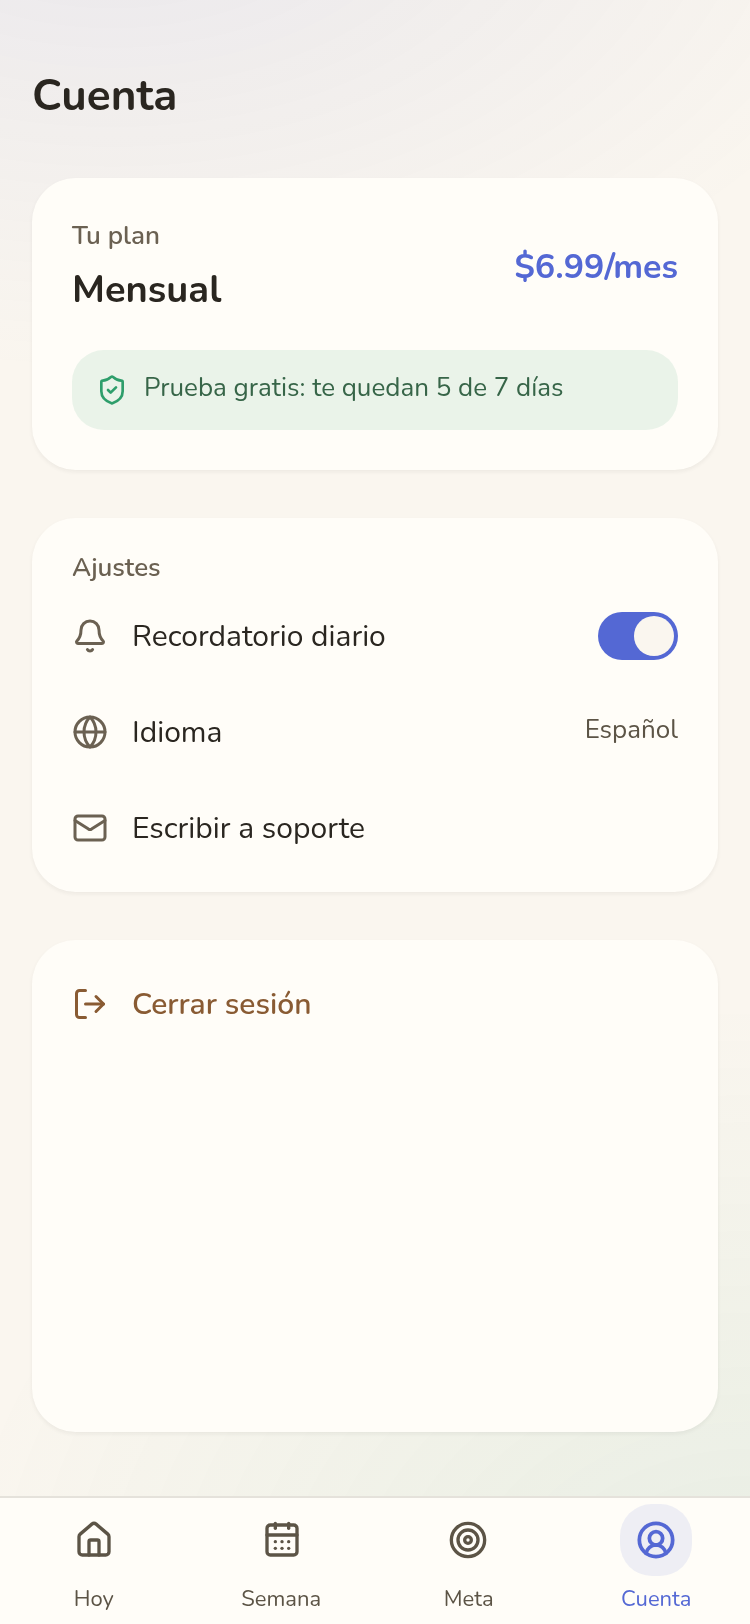
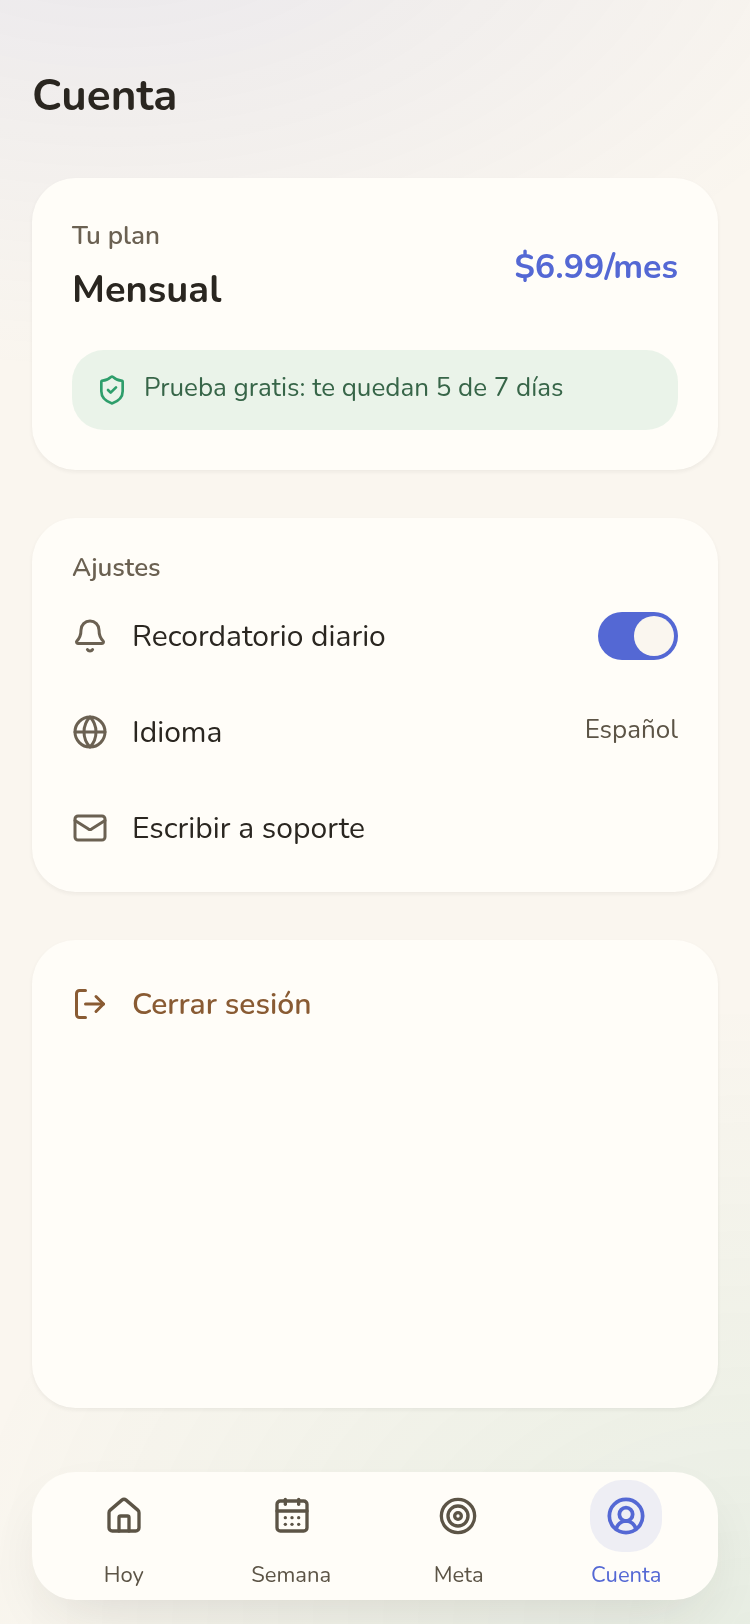
feat: menú inferior con relieve (isla flotante) + cierre de Sesión 5
Se mostraron 3 variantes de relieve para el menú (Hoy/Semana/Meta/Cuenta)
y la usuaria eligió "isla flotante": la barra se despega de los bordes
con margen y sombra propia. Queda como la única versión en BottomNav.

Sesión 5 (app interna) cerrada: la usuaria vio las 2 rondas del revisor
sobre "Hoy", corrigió los 5 pendientes concretos y decidió avanzar a
Sesión 6 sin pedir una 3ª ronda automática.

Claude-Session: https://claude.ai/code/session_013BYtLeMwZuWh58hVzwvyD5

Changed region(s): [[0.092, 0.9236, 0.9813, 1.0]]

diff --git a/components/app/ui.tsx b/components/app/ui.tsx
@@ -36,37 +36,42 @@ const DESTINOS: { href: string; label: string; icon: LucideIcon }[] = [
 ];
 
 /* ── <BottomNav> — 4 destinos (regla de 3-5), activo con chip de fondo +
-   ícono/label en acento (nunca del mismo color que su contenedor). ── */
+   ícono/label en acento (nunca del mismo color que su contenedor). "Isla
+   flotante": la barra se despega de los bordes y del fondo con margen
+   visible alrededor y sombra propia — elegida por la usuaria el 2026-09-18
+   entre 3 variantes de relieve (ver docs/revisiones/vivo/nav-variante-*.png). ── */
 export function BottomNav() {
   const ruta = usePathname();
   return (
-    <nav
-      aria-label="Navegación principal"
-      className="sticky bottom-0 z-20 flex h-16 items-stretch border-t border-[color-mix(in_oklab,var(--text-tertiary)_16%,transparent)] bg-[var(--surface)] pb-[env(safe-area-inset-bottom)]"
-    >
-      {DESTINOS.map(({ href, label, icon: Icono }) => {
-        const activo = href === '/app' ? ruta === '/app' : ruta.startsWith(href);
-        return (
-          <Link
-            key={href}
-            href={href}
-            aria-current={activo ? 'page' : undefined}
-            className="flex flex-1 flex-col items-center justify-center gap-1 [touch-action:manipulation]"
-          >
-            <span
-              className={`flex size-9 items-center justify-center rounded-[var(--radius-button)] ${
-                activo ? 'bg-[var(--chip-bg)]' : ''
-              }`}
+    <div className="px-4 pb-[max(12px,env(safe-area-inset-bottom))]">
+      <nav
+        aria-label="Navegación principal"
+        className="flex h-16 items-stretch rounded-[var(--radius-card)] bg-[var(--surface)] px-1 shadow-[var(--shadow-2)]"
+      >
+        {DESTINOS.map(({ href, label, icon: Icono }) => {
+          const activo = href === '/app' ? ruta === '/app' : ruta.startsWith(href);
+          return (
+            <Link
+              key={href}
+              href={href}
+              aria-current={activo ? 'page' : undefined}
+              className="flex flex-1 flex-col items-center justify-center gap-1 [touch-action:manipulation]"
             >
-              <Icono size={20} strokeWidth={activo ? 2.25 : 2} color={activo ? 'var(--accent)' : 'var(--text-tertiary)'} aria-hidden="true" />
-            </span>
-            <span className={`text-[11px] font-medium ${activo ? 'text-[var(--accent)]' : 'text-[var(--text-tertiary)]'}`}>
-              {label}
-            </span>
-          </Link>
-        );
-      })}
-    </nav>
+              <span
+                className={`flex size-9 items-center justify-center rounded-[var(--radius-button)] ${
+                  activo ? 'bg-[var(--chip-bg)]' : ''
+                }`}
+              >
+                <Icono size={20} strokeWidth={activo ? 2.25 : 2} color={activo ? 'var(--accent)' : 'var(--text-tertiary)'} aria-hidden="true" />
+              </span>
+              <span className={`text-[11px] font-medium ${activo ? 'text-[var(--accent)]' : 'text-[var(--text-tertiary)]'}`}>
+                {label}
+              </span>
+            </Link>
+          );
+        })}
+      </nav>
+    </div>
   );
 }
 

diff --git a/ESTADO.md b/ESTADO.md
@@ -17,9 +17,17 @@ la meta + más contenido real (racha en la confirmación), (4) botón "Cancelar"
 valor, (5) FICHA-ARTE.md actualizada para documentar la escala tipográfica realmente en uso
 (19-22px título, 12-13px label) en vez de re-litigar tamaños ya consistentes en paywall/
 onboarding. tsc ✓ build ✓ · capturas regeneradas. NO se relanzó el revisor una 3ª vez (respeta
-el límite de la usuaria) — queda pendiente que ELLA vea el resultado y decida si esto ya cierra
-la pantalla o prefiere una verificación más.
-Paso actual: mostrarle a la usuaria las capturas actualizadas y esperar su decisión.
+el límite de la usuaria). La usuaria decidió AVANZAR A SESIÓN 6 con este resultado (sin pedir
+una verificación más de "Hoy").
+Antes de avanzar, pidió un ajuste visual: el menú inferior (Hoy/Semana/Meta/Cuenta) con efecto
+de relieve/3D. Se mostraron 3 variantes reales (docs/revisiones/vivo/nav-variante-A/B/C.png):
+A "Isla flotante" (barra despegada de los bordes, con margen y sombra propia), B "Puente
+elevado" (ancho completo, esquinas superiores redondeadas, sombra hacia arriba), C "Cápsula
+activa" (barra plana, solo el ítem activo se levanta). Eligió **A**. Implementada en
+`components/app/ui.tsx` (`BottomNav`) como la única versión — el código de comparación
+(`?nav=A|B|C`) se quitó, no queda como opción oculta. tsc ✓ build ✓ · capturas regeneradas con
+el menú nuevo en las 4 pantallas.
+Paso actual: Sesión 5 CERRADA. Arrancar Sesión 6 (servicios externos).
 Pantallas creadas: Hoy · Semana · Tu meta · Cuenta.
 Protagonista de cada pantalla: Hoy = marcar el Semáforo del día · Semana = tendencia de los
 últimos días/semanas · Tu meta = avance de la meta elegida en el onboarding · Cuenta = plan y
@@ -94,16 +102,16 @@ App de hábito diario que acompaña a mujeres 25-35 LATAM a dejar de gastar por 
 - Onboarding: construida y APROBADA POR LA USUARIA EN SUSTANCIA (Sesión 4, cerrada 2026-09-18)
 - Paywall: CERTIFICADA ✅ por el revisor-visual (Sesión 4, cerrada 2026-09-18)
 - Login/Auth: construida (UI completa, magic link SIMULADO — Supabase Auth real se conecta en Sesión 6), no requiere revisor obligatorio
-- App interna: 4 pantallas construidas (Hoy, Semana, Tu meta, Cuenta) — PENDIENTE de que la usuaria vea las capturas y decida sobre la revisión del revisor-visual en Hoy (la pantalla principal). Persistencia local (Supabase real en Sesión 6).
-- Servicios externos: pendiente
+- App interna: 4 pantallas construidas y APROBADAS POR LA USUARIA (Hoy, Semana, Tu meta, Cuenta) — Sesión 5 cerrada 2026-09-18. Persistencia local (Supabase real en Sesión 6).
+- Servicios externos: pendiente (Sesión 6, en curso)
 
 ## Puertas de etapa (aprobacion antes de avanzar)
 - Landing: APROBADA POR EL USUARIO EN SUSTANCIA, PENDIENTE de certificación formal del revisor-visual — evidencia: tsc ✓ build ✓ dev ✓ · screenshot docs/revisiones/landing-375.png · veredicto actual en docs/revisiones/landing-veredicto.md = NO LISTA (usabilidad 31/40 · craft 15/20 · copy 19/20, 7ª pasada). El techo restante es estructural (2 excepciones de identidad que el usuario decidió mantener + placeholders de app real que no existe hasta la Sesión 5) — el usuario, informado del detalle exacto, decidió avanzar así. No re-abrir esta decisión sin que el usuario lo pida.
 - Onboarding: APROBADO POR LA USUARIA EN SUSTANCIA (2026-09-18) — evidencia: tsc ✓ build ✓ · flujo completo probado en navegador · 16 pasadas del revisor-visual (última: usabilidad 29/40, craft 17/20 — craft sí pasa, usabilidad no alcanza el gate ≥36/40) · veredicto en docs/revisiones/onboarding-veredicto.md · capturas en vivo a 375px en docs/revisiones/vivo/. La usuaria vio las capturas reales, entendió los 5 pendientes conocidos (ver Problemas conocidos) y decidió avanzar sin seguir iterando — no re-abrir sin que ella lo pida.
 - Paywall: CERTIFICADA ✅ (12ª pasada del revisor-visual, 2026-09-18) — usabilidad 37/40 · craft 20/20 · copy 19/20 (gate ≥36/40, ≥16/20, ≥16/20 sin ejes ≤2, todos superados). Evidencia: tsc ✓ build ✓ · screenshot docs/revisiones/paywall-375.png (+ paywall-cargando-375.png) · veredicto en docs/revisiones/paywall-veredicto.md = LISTA. Historial: 12 rondas, empezando en 29/40 (ronda 4-ish) hasta cerrar con fixes de accesibilidad (ARIA en selector de plan, aria-label unificado, hairline consistente entre planes, escala tipográfica de 4 niveles). Quedan 4 notas de refinamiento fino no bloqueantes (ver veredicto): tamaño de ícono X levemente distinto entre fases, aria-label "Cerrar" del paywall no se propagó al "Salir" de FunnelHeader (onboarding) — no bloqueante, no re-abrir sin pedido del usuario.
 - Login/Auth: construida — evidencia: tsc ✓ build ✓ · estados idle/enviando/enviado probados en navegador · screenshot docs/revisiones/entrar-375.png · sin revisor (pantalla secundaria, no es de las 4 del dinero) · magic link SIMULADO, sin backend real todavía (Sesión 6)
-- App interna: construida (Hoy, Semana, Tu meta, Cuenta), PENDIENTE de decisión de la usuaria — evidencia: tsc ✓ build ✓ · capturas reales a 375px con datos de ejemplo en docs/revisiones/vivo/ (+ copias canónicas: pantalla-principal-375.png, semana-375.png, meta-375.png, cuenta-375.png) · flujo probado (marcar Semáforo, navegar semanas, crear/registrar meta en ambos modos, cerrar sesión) · revisor-visual AÚN NO lanzado en Hoy (pantalla principal) — pendiente de que la usuaria decida si lo pide, mismo criterio que se usó en onboarding.
-- Servicios externos: bloqueados
+- App interna: APROBADA POR LA USUARIA (2026-09-18) — evidencia: tsc ✓ build ✓ · capturas reales a 375px en docs/revisiones/vivo/ (+ canónicas: pantalla-principal-375.png, semana-375.png, meta-375.png, cuenta-375.png) · flujo probado (marcar Semáforo, cancelar edición, navegar semanas, crear/registrar meta en ambos modos, cerrar sesión) · "Hoy" pasó 2 rondas del revisor-visual (32/40·12/20 → 27/40·14/20, no llegó al gate ≥36/40) y la usuaria decidió avanzar tras corregir los 5 pendientes concretos que encontró, sin pedir una 3ª ronda. Menú inferior con relieve ("isla flotante") elegido por la usuaria entre 3 variantes.
+- Servicios externos: en curso (Sesión 6)
 
 ## Decisiones técnicas (NO re-discutir sin pedirlo el usuario)
 - Framework: Next.js 16 App Router (React 19, Turbopack) — landing con SEO/contenido orgánico + API routes para webhook de Hotmart, y duda entre Vite/Next resuelta por la regla del stack a favor de Next. Scaffold hecho el 2026-09-17 según 51-STACK-PINEADO.md.
@@ -124,9 +132,10 @@ App de hábito diario que acompaña a mujeres 25-35 LATAM a dejar de gastar por 
 - Sesión 2 — Identidad visual (FICHA-ARTE.md aprobada, dirección B "Respira en calma") — cerrada 2026-09-17.
 - Sesión 3 — Página de ventas (10 secciones) — cerrada 2026-09-17. Nota: tras el cierre, el usuario pidió 5 ajustes (registro/emojis/colores/garantía) que reabrieron 7 pasadas de revisión; el veredicto final quedó NO LISTA por un techo estructural (ver Problemas conocidos) que el usuario decidió aceptar en vez de seguir corrigiendo.
 - Sesión 4 — Onboarding, paywall y login — cerrada 2026-09-18. Paywall CERTIFICADO ✅ por el revisor-visual (37/40 · 20/20 · 19/20). Onboarding APROBADO POR LA USUARIA EN SUSTANCIA tras 16 pasadas (29/40 usabilidad, techo no bloqueante — ver Problemas conocidos) — la usuaria vio capturas reales del estado actual y decidió avanzar sin seguir iterando. Login construido como pantalla secundaria.
+- Sesión 5 — App interna (Hoy, Semana, Tu meta, Cuenta) — cerrada 2026-09-18. "Hoy" hizo 2 rondas del revisor-visual (límite puesto por la usuaria); tras verlas, la usuaria eligió corregir los 5 pendientes concretos en vez de una 3ª ronda automática, y luego decidió avanzar. Menú inferior con relieve ("isla flotante") elegido entre 3 variantes.
 
 ## Sesión en progreso 🔧
-- Sesión 5 (código construido y verificado, PENDIENTE de la decisión de la usuaria) — app interna: Hoy, Semana, Tu meta, Cuenta.
+- Ninguna — lista para arrancar Sesión 6.
 
 ## Próximas sesiones 📋
 - Sesión 6: servicios externos (GitHub ya está, falta Supabase real, IA si aplica, Vercel, Resend, dominio, Hotmart) — ahí se reemplazan los placeholders del carrusel de la landing por screenshots reales de la app.
@@ -140,6 +149,7 @@ App de hábito diario que acompaña a mujeres 25-35 LATAM a dejar de gastar por 
   5. El botón "Seguir aquí" del aviso de salida, cuando ya te comprometiste, en realidad te lleva a la pantalla de planes — el texto no calza con la acción.
   No re-abrir esta pantalla ni relanzar el revisor sobre ella sin que la usuaria lo pida.
 - veredicto paywall: CERTIFICADO ✅ — ver "Puertas de etapa". Ya no es un problema pendiente.
+- veredicto pantalla-principal ("Hoy", app interna): APROBADO POR LA USUARIA (2026-09-18) tras 2 rondas del revisor-visual (32/40·12/20 → 27/40·14/20 — nunca alcanzó el gate ≥36/40, ≥16/20). Detalle completo en docs/revisiones/pantalla-principal-veredicto.md. Se corrigieron los 5 defectos concretos de la ronda 2 (aviso de guardado impreciso, tarjeta de reflexión sin tratamiento visual, hueco vacío bajo la meta, sin forma de cancelar al editar el día, tipografía fuera de la escala documentada) y la usuaria decidió avanzar a Sesión 6 sin pedir una 3ª ronda — no re-abrir esta pantalla ni relanzar el revisor sobre ella sin que la usuaria lo pida.
 - veredicto landing PENDIENTE de certificación formal (7ª pasada del revisor-visual: usabilidad 31/40, craft 15/20 — gate exige ≥36/40 y ≥16/20; copy 19/20 sí pasa) — DECISIÓN FINAL DEL USUARIO (2026-09-17): se le presentó la disyuntiva completa (mantener "check-in diario" en Oferta + emojis a color en "¿Te suena?" vs. revertirlos para subir la nota) y respondió "dejar todo como está". Landing queda APROBADA POR EL USUARIO EN SUSTANCIA, la certificación formal queda PENDIENTE hasta la Sesión 5. Detalle de por qué el techo es estructural (para no repetir el análisis si se vuelve a tocar esta pantalla):
   - "Check-in diario" (excepción del usuario en Oferta) le cuesta a USABILIDAD ~2 puntos (heurística de lenguaje consistente).
   - Los emojis a color de "¿Te suena?" (excepción del usuario) le cuestan a CRAFT el punto exacto que separa 15/20 de 16/20 (el umbral) — es la única razón por la que craft no pasa.
